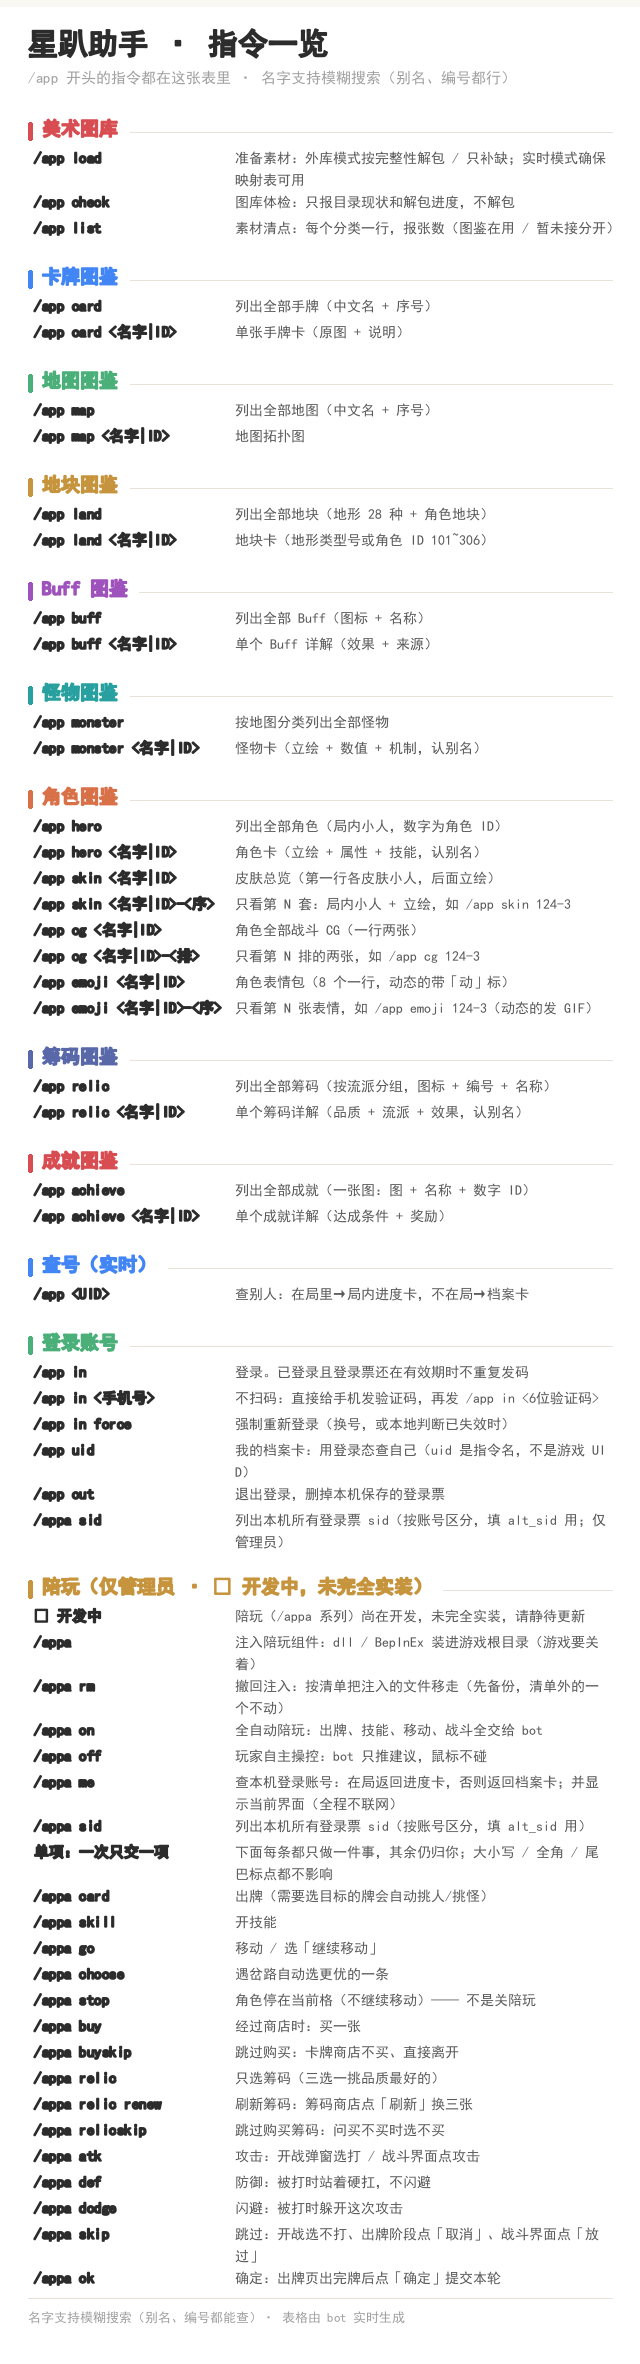
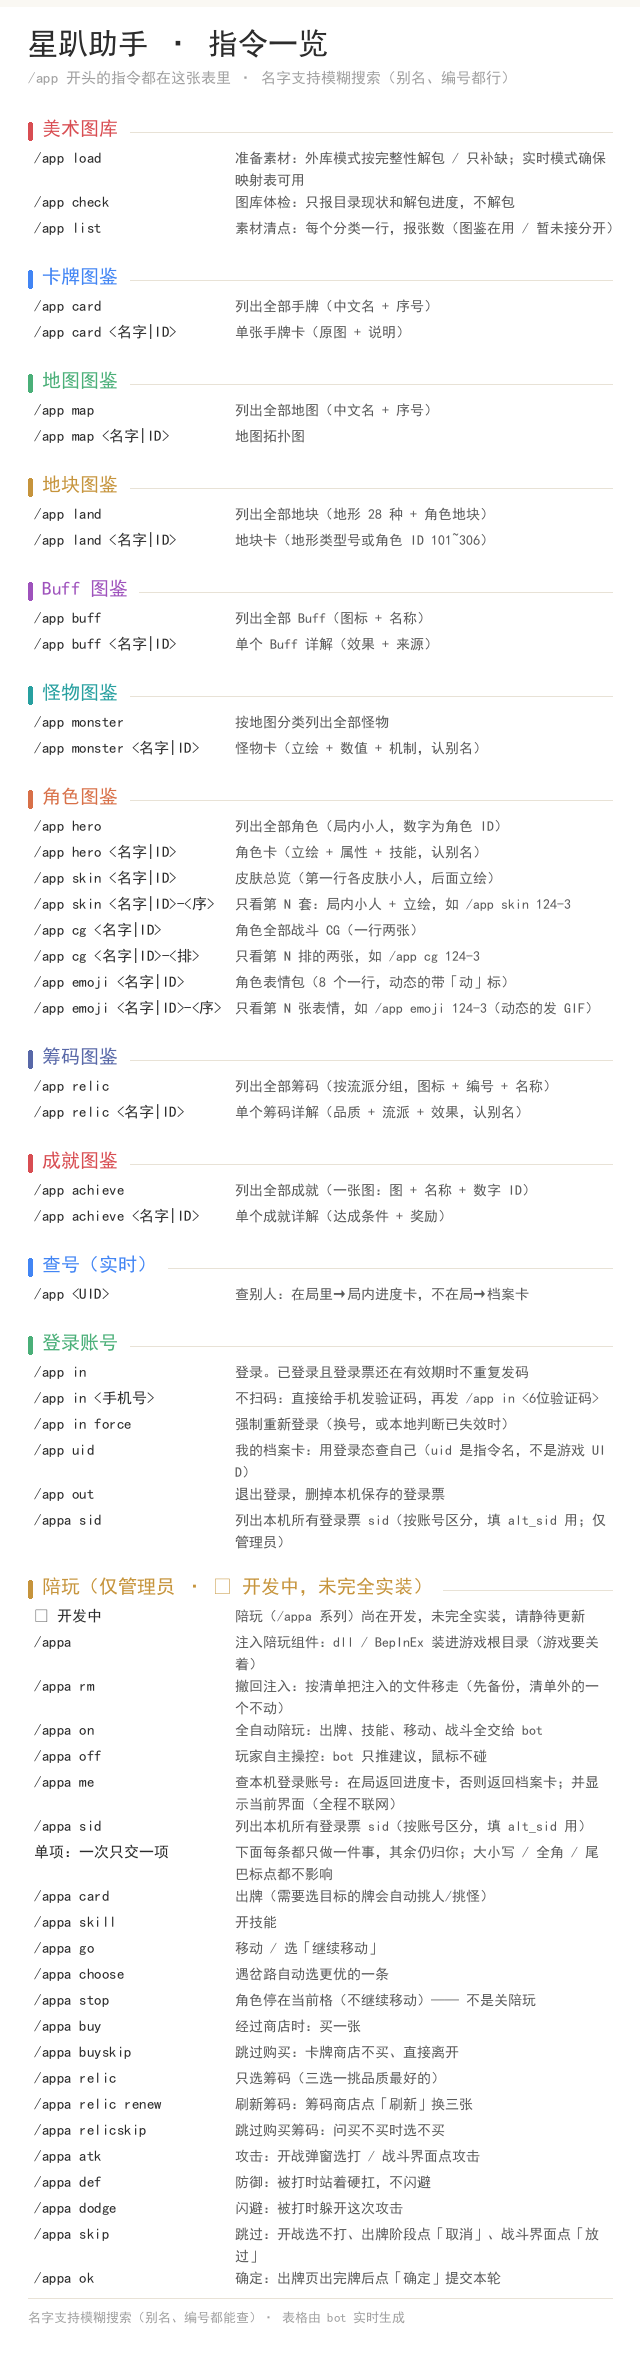
style: /app help 渲染图去掉粗体（标题/节名/指令列统一常规字重）

diff --git a/CHANGELOG.md b/CHANGELOG.md
@@ -44,6 +44,7 @@
 
 ### 变更
 
+- `docs/help.png`（`/app help` 渲染图）**不再用粗体**：标题 / 节名 / 指令列统一常规字重，量列宽也用同一套字体，排版不再因字重差而错位。
 - 新配置 `emoji_fps`（默认 30）：动态表情拼 GIF 的帧率。资产里没有 fps（运行时由 `_Sequence` 着色器参数传入），可调。
 - 新配置 `emoji_transparent`（默认开）：只作用于**动态表情 GIF**（GIF 只有单色透明，柔边会被二值化）。开＝透明底（文件更小，329KB vs 白底 352KB）；关＝铺白底，柔边更完整但会带白方块。静态表情是 PNG，带完整 alpha，不受这个开关影响。
 - 新知识库 `kb/vemoji.json`：76 个动态表情 / 24 位角色，由 `Character.txt`（表情列表里的 `VEmoji_*` 条目）与 `Item.txt`（表情道具 `f11=5`）交叉验证生成，两边都是 76 条、完全一致。
